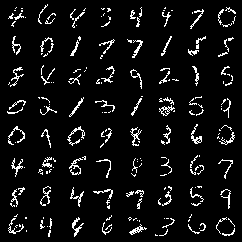
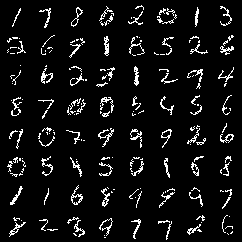
jianh

diff --git a/Demo4/main.py b/Demo4/main.py
@@ -113,6 +113,10 @@ def main():
     loss_hist['G_losses'] = []
     loss_hist['per_epoch_times'] = []
     loss_hist['total_times'] = []
+
+    result_path = 'result_image'
+    if not os.path.isdir(result_path):
+        os.mkdir(result_path)
     # 开始训练
     print('*****************************')
     print('start train!!!')
@@ -171,6 +175,9 @@ def main():
             z = torch.cat((z_cls, z_geo), 2).to(device)
 
             fake_images_g = gen(z) #生成fake图像
+            if batch_idx == 1:
+                generated_images = points_to_image(fake_images_g[:64, :, :]).view(-1, 1, 28, 28)
+                save_image(generated_images, '{}/{}.png'.format(result_path, epoch+1), nrow=8)           
             D_out = dis(fake_images_g) #判断fake图像
 
             g_loss = real_loss(D_out, device) 
@@ -182,9 +189,7 @@ def main():
         per_epoch_time = epoch_end_time - epoch_start_time
         print("[{}/{}] --time: {:.2f}, d_loss: {:.6f}, g_loss: {:.6f}".format(epoch+1, \
                                                                             num_epochs, per_epoch_time, d_loss, g_loss))
-        result_path = 'result_image'
-        if not os.path.isdir(result_path):
-            os.mkdir(result_path)
+
         #测试部分
         # test_samples = 64
         # #z_cls = torch.FloatTensor(test_samples, element_num, cls_num).uniform_(0, 1) #均匀分布
@@ -192,9 +197,6 @@ def main():
         # z_geo = torch.FloatTensor(test_samples, element_num, geo_num).normal_(0.5, 0.15) #正态分布
         # z = torch.cat((z_cls, z_geo), 2).to(device)
 
-        # generated_images = gen(z)
-        # generated_images = points_to_image(generated_images).view(-1, 1, 28, 28)
-        # save_image(generated_images, '{}/{}.png'.format(result_path, epoch+1, ), nrow=8)
         loss_hist['D_losses'].append(torch.mean(torch.FloatTensor(D_losses)))
         loss_hist['G_losses'].append(torch.mean(torch.FloatTensor(G_losses)))
         loss_hist['per_epoch_times'].append(per_epoch_time)

diff --git a/Demo4/model.py b/Demo4/model.py
@@ -137,11 +137,11 @@ class Discriminator(nn.Module):
         self.feature_size = geo_num + cls_num
 
         # Encode
-        self.encoder_fc1 = nn.Linear(self.feature_size, self.feature_size*2, bias=False)
+        self.encoder_fc1 = nn.Linear(self.feature_size, self.feature_size*2,)
         self.encoder_bn1 = nn.BatchNorm1d(num_elements)  
-        self.encoder_fc2 = nn.Linear(self.feature_size*2, self.feature_size*2*2, bias=False)
+        self.encoder_fc2 = nn.Linear(self.feature_size*2, self.feature_size*2*2)
         self.encoder_bn2 = nn.BatchNorm1d(num_elements)
-        self.encoder_fc3 = nn.Linear(self.feature_size*2*2, self.feature_size*2*2,bias=False)
+        self.encoder_fc3 = nn.Linear(self.feature_size*2*2, self.feature_size*2*2)
 
         # relation
         self.attention_1 = Attention(self.feature_size*2*2, 1, generate=False)
@@ -153,8 +153,8 @@ class Discriminator(nn.Module):
         self.g = nn.MaxPool1d(kernel_size=num_elements)
 
         # Decode
-        self.decoder_fc4 = nn.Linear(self.feature_size*2*2, self.feature_size*2, bias=False)
-        self.decoder_fc5 = nn.Linear(self.feature_size*2, 1, bias=False)
+        self.decoder_fc4 = nn.Linear(self.feature_size*2*2, self.feature_size*2)
+        self.decoder_fc5 = nn.Linear(self.feature_size*2, 1)
         
     def weight_init(self, mean, std):
         for m in self._modules:
